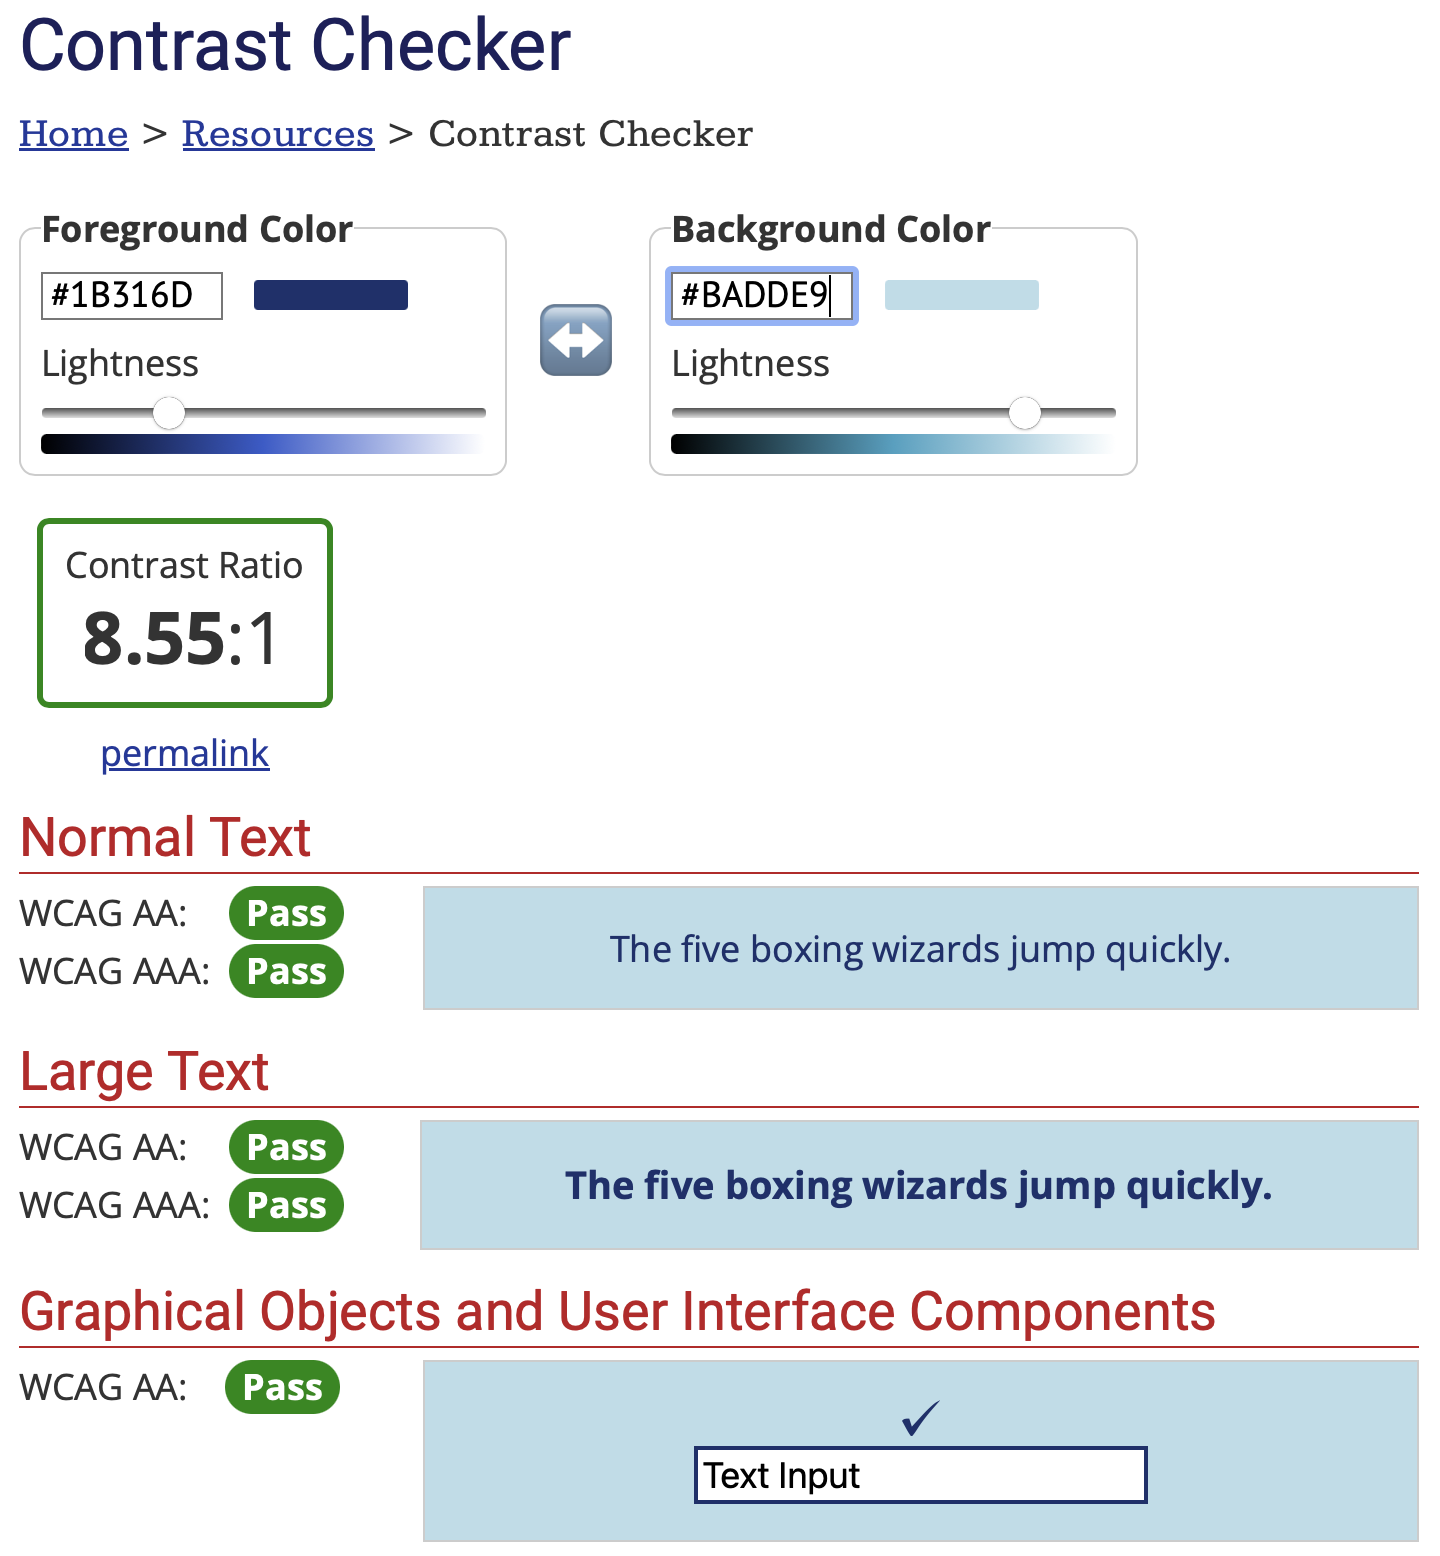
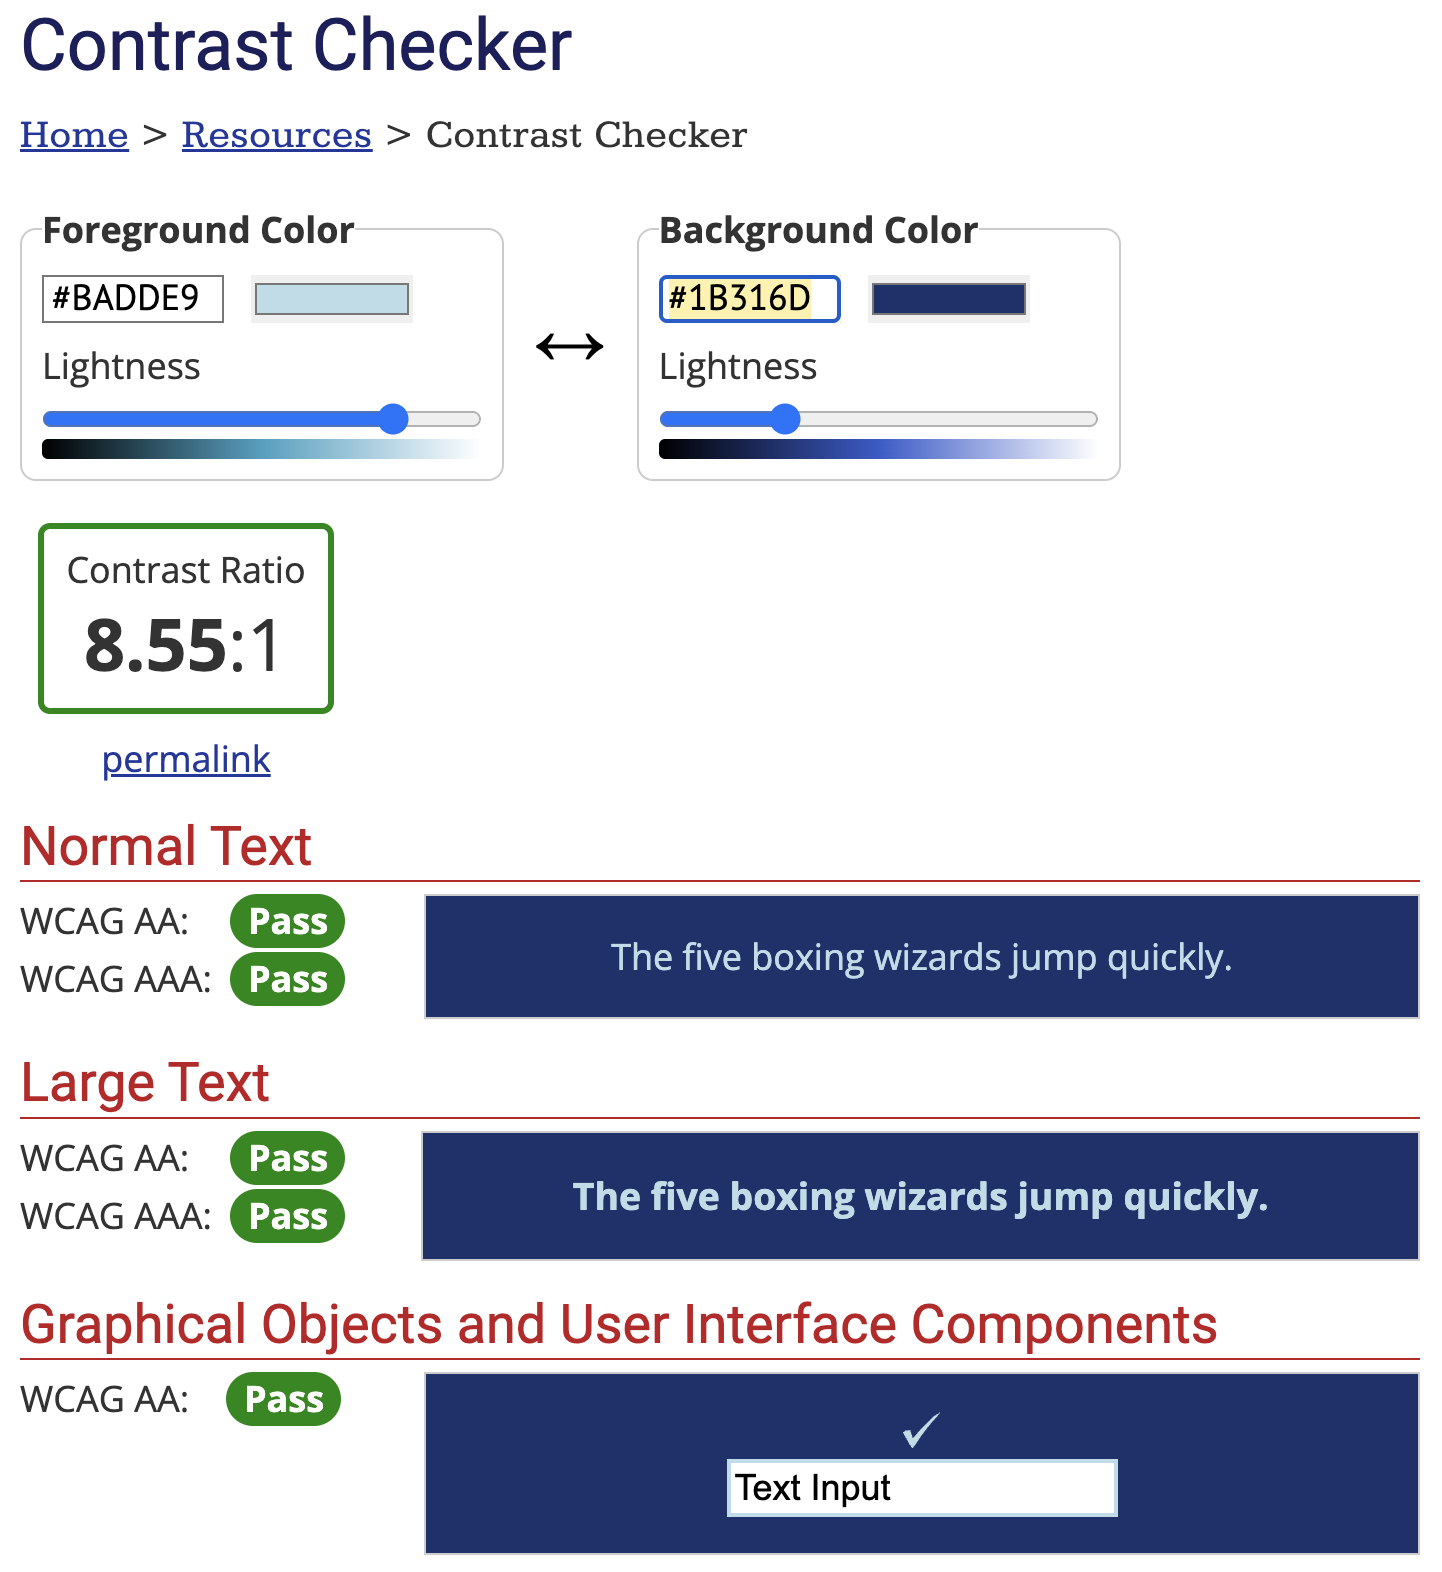
docs: update contrast checker section and image perform contrast check of Biscay background with Powder Blue foreground to reflect game elements

diff --git a/README.md b/README.md
@@ -291,7 +291,7 @@ In order to test children's responses to the site, I asked my two daughters Isse
 - Accessibility
   - Accessibility of the pages was checked using the lighthouse tool in devtools with a score within the 96 - 100% bracket for all metrics.
    ![Lighthouse Results](/assets/README-files/lighthouse-results.png)<br><br>
-  - The lighter colours Confetti and Powder Blue were checked against the Biscay colour using [contrast checker](https://webaim.org/resources/contrastchecker/).<br><br>
+  - The colour contrasts of Confetti background with a Biscay foreground Biscay background with Powder Blue foreground were checked and passed the applicable tests on Web AIM contrast checker.<br><br>
   
   <table  width = 100% height = 350px cellspacing="0" cellpadding="0">
   <tr>
@@ -426,6 +426,7 @@ NOTE: Specific links are included within the HTML, CSS or Javascript files. The 
 - Special thanks to my wife Sinéad and my daughters Issey and Sienna for their help in the inception of the project and all the way through to testing user stories.
 ### Media
 - The site logo was created using Hatchful, a free logo design service offered by [Shopify.](https://www.shopify.com/tools/logo-maker)
+- Colour contrast was checked using [contrast checker.](https://webaim.org/resources/contrastchecker/)
 - The site colour scheme pallete was generated using the palette creation tool in [Color Hex.](https://www.color-hex.com/) 
 - The site background image is from <a href="https://www.freepik.com/free-vector/wild-animal-cartoon-character-forest-scene_14801768.htm#query=cartoon%20jungle&position=49&from_view=search&track=ais">Freepik.</a>
 - Conversion of mp4s to GIFs using free service on the [ezgif.com](https://ezgif.com/video-to-gif) website.
